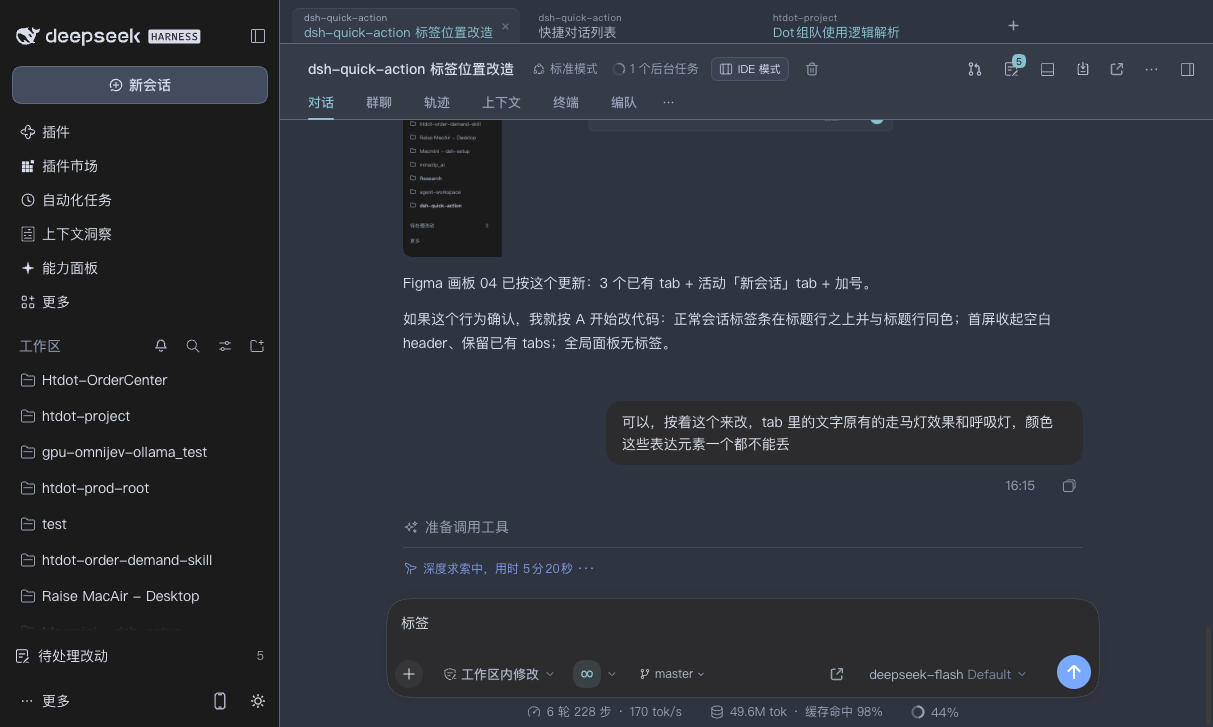
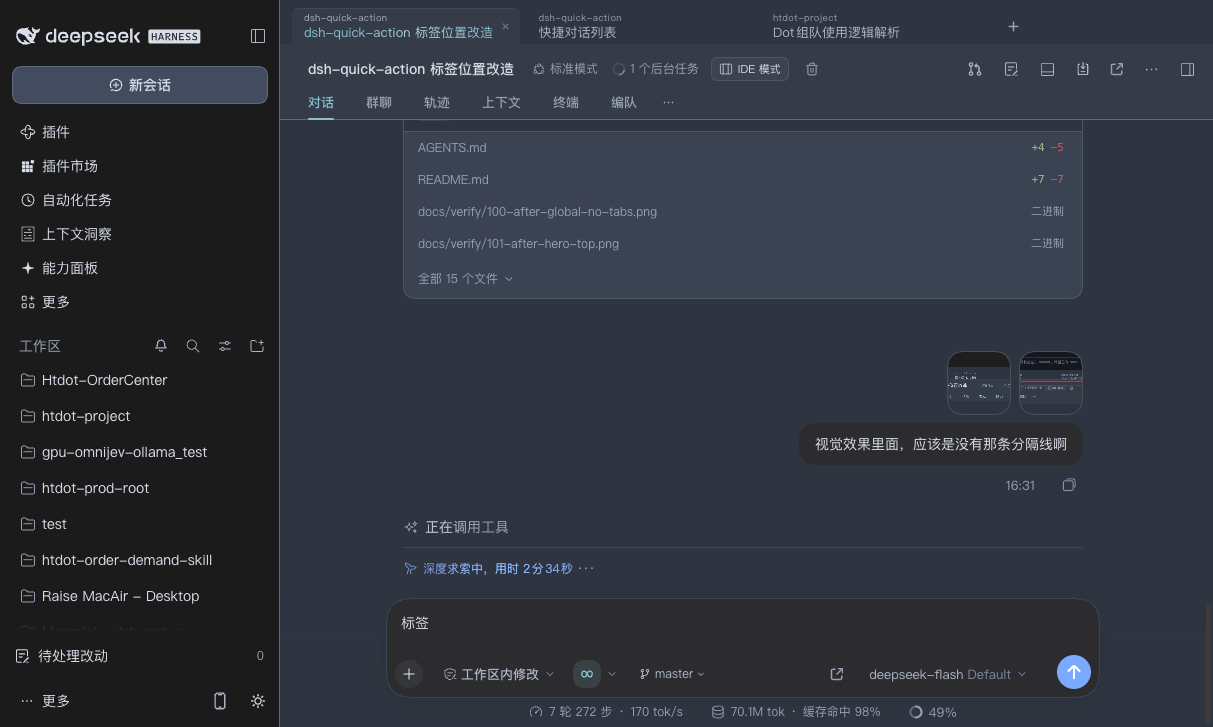
fix: remove the tab strip divider line

diff --git a/lib/client.js b/lib/client.js
@@ -68,11 +68,11 @@ window.__ModuleLoader__.load({
 .qa-host[hidden]{display:none!important}
 [data-composer-seat]{transition:opacity .24s ease}
 [data-composer-seat][data-qa-composer=hidden]{opacity:0!important;pointer-events:none!important}
-.qa-strip{box-sizing:border-box;display:flex;align-items:stretch;min-width:0;height:44px;padding:8px 0 0 0;position:relative;border-bottom:1px solid var(--qa-line)}
+.qa-strip{box-sizing:border-box;display:flex;align-items:stretch;min-width:0;height:44px;padding:8px 0 0 0;position:relative}
 .qa-list{display:flex;flex:1 1 auto;min-width:0;gap:6px;padding:0 12px;overflow-x:auto;overscroll-behavior-x:contain;scrollbar-width:none}
 .qa-list::-webkit-scrollbar{display:none}
 .qa-spacer{flex:1;min-width:8px;-webkit-app-region:drag}
-.qa-fade{position:absolute;top:0;bottom:1px;width:76px;pointer-events:none;opacity:0;transition:opacity .16s ease-out;z-index:2}
+.qa-fade{position:absolute;top:0;bottom:0;width:76px;pointer-events:none;opacity:0;transition:opacity .16s ease-out;z-index:2}
 .qa-fade-right{right:0;background:linear-gradient(to right,transparent,var(--qa-strip) 72%)}
 .qa-fade-left{left:0;background:linear-gradient(to left,transparent,var(--qa-strip) 72%)}
 .qa-strip[data-more=right] .qa-fade-right,.qa-strip[data-more=both] .qa-fade-right{opacity:1}

diff --git a/AGENTS.md b/AGENTS.md
@@ -102,7 +102,7 @@ node tests/controller.test.mjs      # controller 单测，末尾打印 "controll
 - 快捷键作用域（v0.2.17）：session 级命令（close/next/prevSession/nextSession/tab1..9）只在会话区生效。`sessionRegionFor({modal,host,hasMain,inMain,globalPanel})` 判定：模态框 → false；标签条（host）→ true；无主面板 → true；否则必须在 `#root [data-slot=main]` 子树内且不是全局视图。状态由 `pointerdown`/`focusin`（capture）维护 `sessionFocus`（最近一次交互是否在会话区）；DOM 兜底在 `runSlot` 里门控，宿主派发的命令在 `run(context)` 里用 `sessionNow(context.target)` 门控（注册时 `resolve` 默认把 context 传给 run）。`⌘I`/`⌘⇧H` 不门控。
 - 快捷键兜底必须跟随配置（v0.2.16，取代 v0.2.15 的「注册成功就禁用兜底」）：`globalKeydown` 不再硬编码按键，而是遍历槽位，取 `fallbackBindingFor(catalogRow, declared)` —— catalog 有该命令就用它**当前绑定**（`binding=null` 表示用户解绑，旧键失效），catalog 没有（服务不可用/注册失败）才退回插件声明的默认键；再用 `bindingMatches(event, binding, mac)` 做 `code + 精确修饰键` 匹配（mac primary=meta，其它平台=ctrl）后执行。绑定状态从注入 scope 的 `shortcuts.catalog.getSnapshot()`（行字段 `binding`）读；`ctx.shortcuts` 直接访问不到，必须 `shortcutScope = scope` 保存。新增快捷键 = 注册 + 在 `runSlot`/`fallbackSlots` 里加动作，不要另写 keydown 分支。`closeTab` 默认无绑定（page.close 占默认键会冲突），因此默认没有 ⌘W，需要用户在设置里绑。
 - ⌘1–⌘9 跳转（v0.2.14）：controller `jumpTo(index)`（1 起算，走 `rows()` 顺序，因此跟随拖动后的排序；越界/非整数返回 false）；在 `ctx.inject(['shortcuts'])` 里循环注册 `quick-action.tab1..9`（桌面 `primary+DigitN`，Web `primary+alt+DigitN`），并在 `globalKeydown` 里保留同一映射的 DOM 兜底（`event.code === 'DigitN'`，`primary` 且无 shift/alt）。宿主已装的其它插件没有占用 Digit 键，注册应成功。
-- 标签条分割线（v0.4.1）：不再画 chip 间竖线；`.qa-strip` 用 `border-bottom:1px solid var(--qa-line)`，活动标签作为子元素覆盖它，形成“标签与页头连成一体”。左右渐隐层设 `bottom:1px` 让底部分割线在边缘仍可见；不要再用 `z-index:3` 的 `.qa-strip::before` 横线，否则会压在活动标签底部。
+- 标签条分割线（v0.4.1）：标签条与页头之间**不画任何横线**（不要给 `.qa-strip` 加 `border-bottom` 或 `::before` 横线）；活动标签与页头同表面色、无缝衔接，非活动标签直接落在页面底色上。chip 之间也不画竖线（`.qa-tab::after` 隐藏）；左右渐隐层铺满标签条高度即可。
 - 状态表达（v0.2.30 定稿）：**workspace 行永远原色；任何状态都不加 chip 底色**。标题：`running/loading` 用 `qa-sweep` 扫光（状态色 + label 色高光，2.4s）；`approval/answer/plan` 用 `qa-breathe` 呼吸（opacity .58↔1，2.8s，标题用 `--qa-text` 72% 状态色柔化）；`unread` 特殊：标题用主色 + 600 字重，6px 绿点 `.qa-unread-dot` **绝对定位在标签右上角**（36px 标签下 `top:7px; right:8px`；`active`/hover/focus 时关闭按钮出现，圆点让到 `right:26px` 避免重叠），仅 `[data-state=unread]` 显示；`idle` 原样。`prefers-reduced-motion` 下全部静态。历史：v0.2.21 横条→22 顶部线→23 整圈描边→24 文本下灯条→25 额外状态词→26 ws+title 扫光→27 仅 title 扫光→29 待处理呼吸、去底色→v0.2.30 未读改右上角绿点。
 
 ## 7. Figma 与设计
